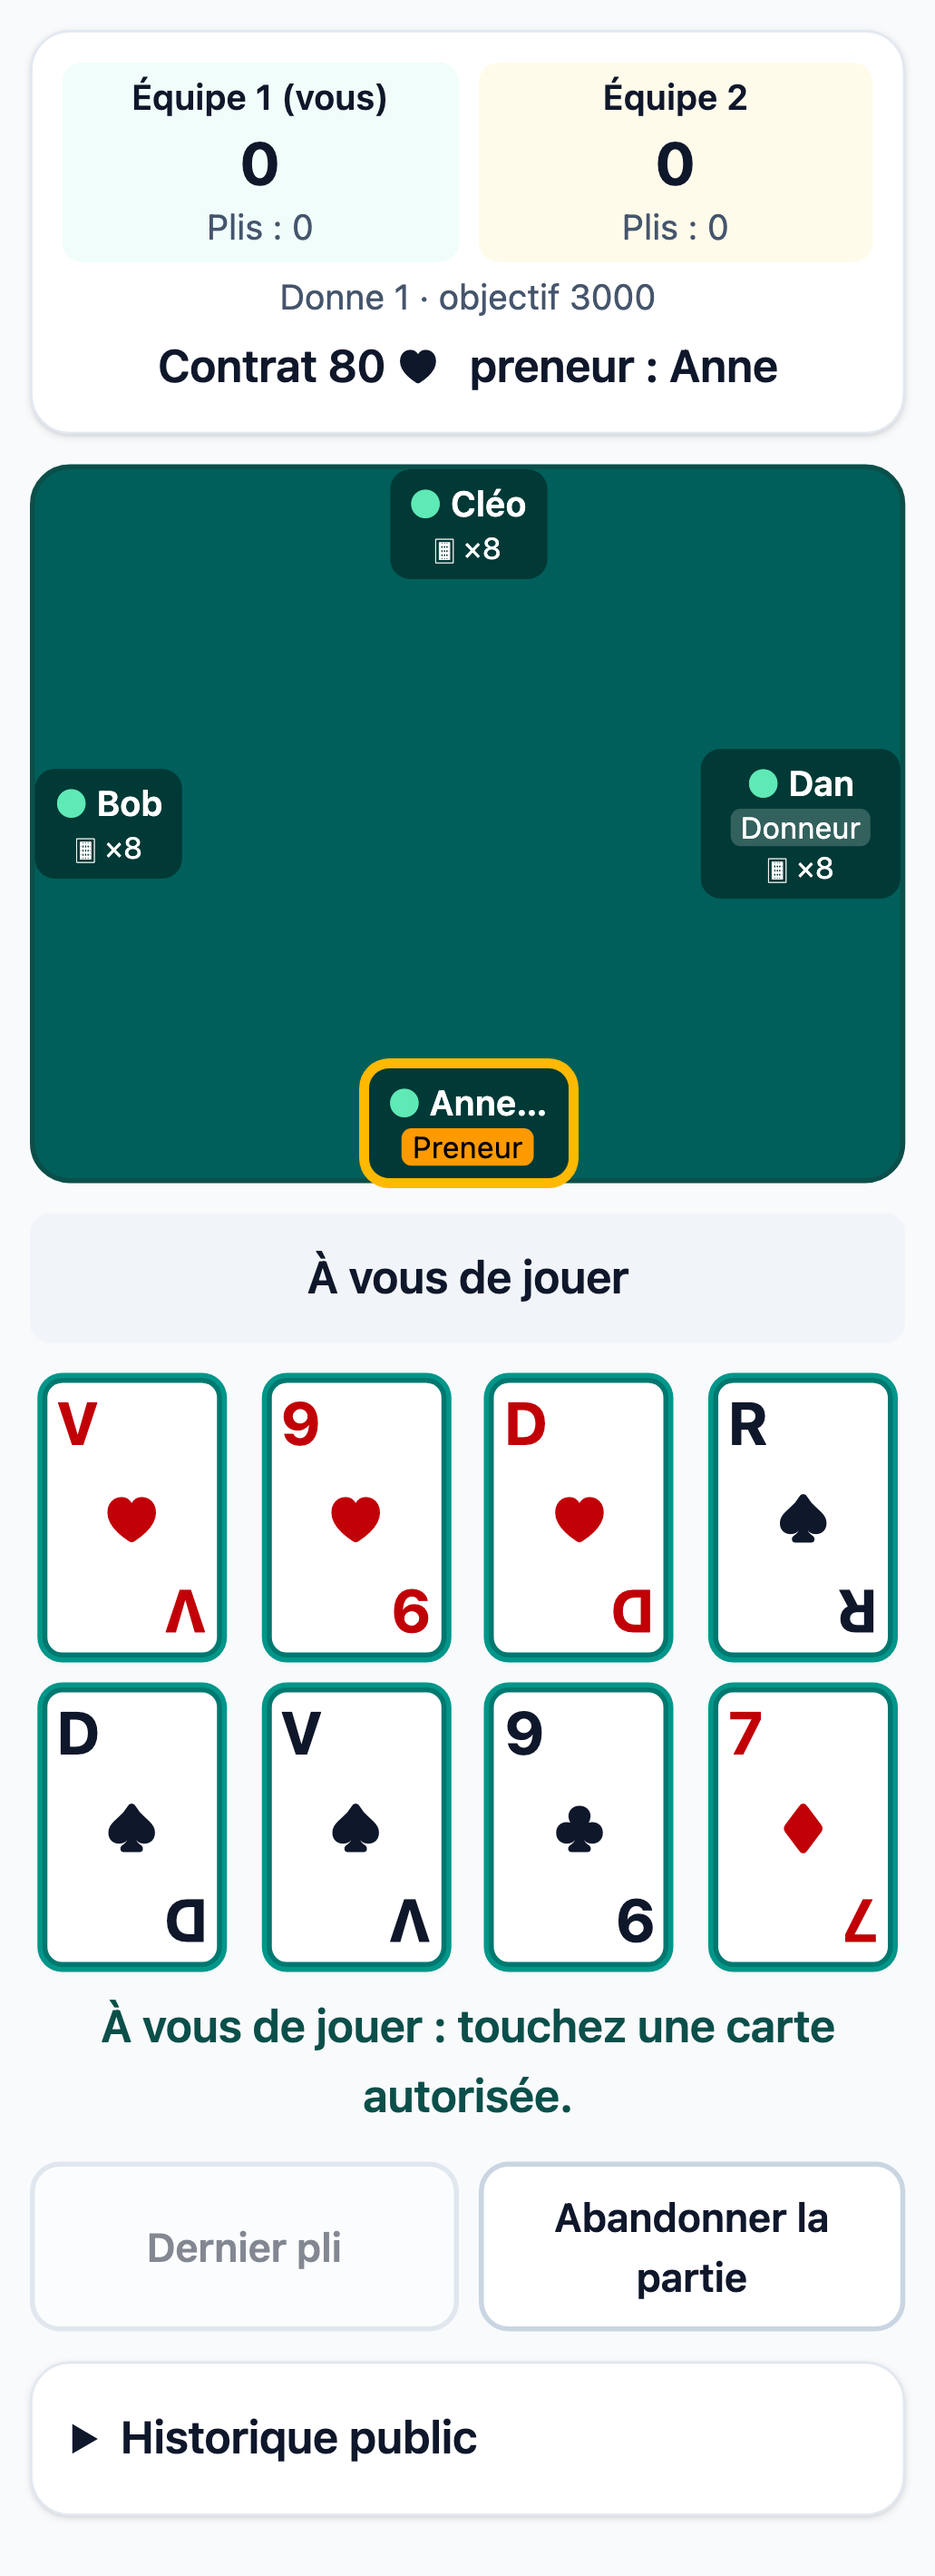
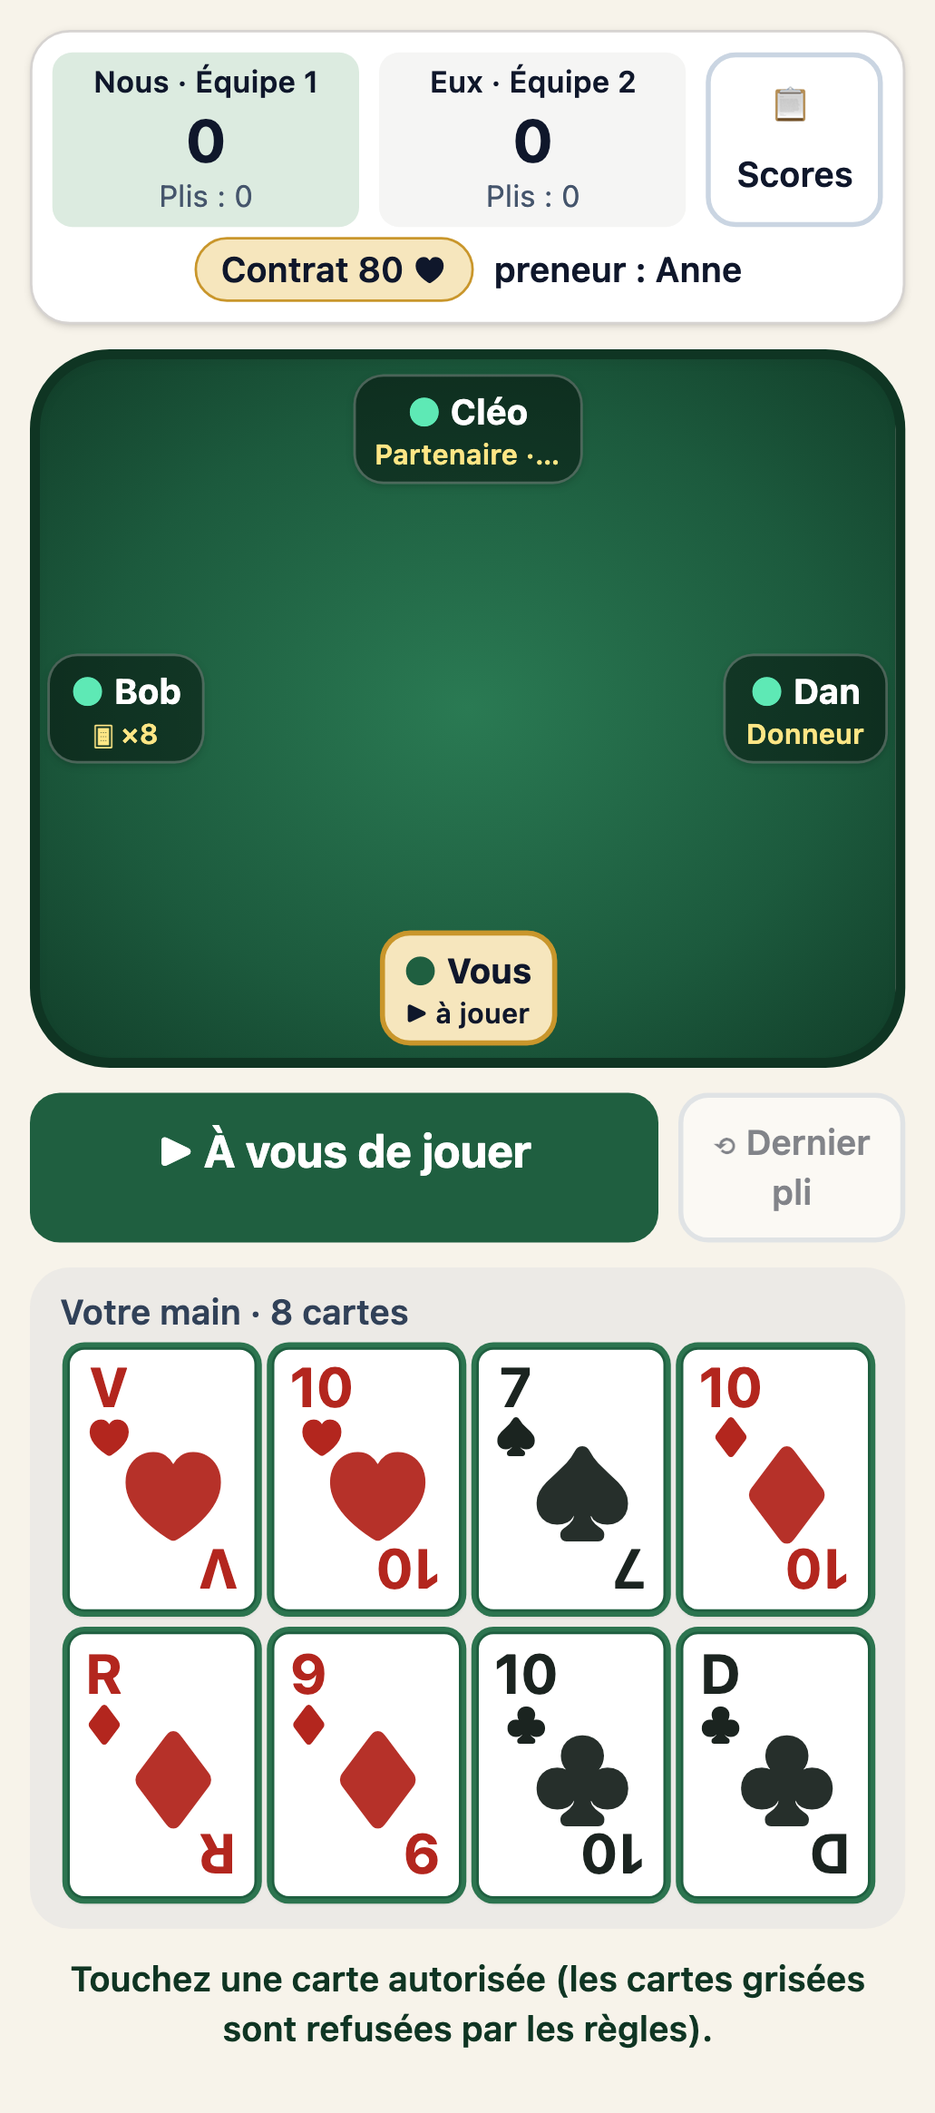
Tests et documentation : parcours adaptés au salon replié, captures avant/après, audit et décisions

diff --git a/e2e/review.spec.ts b/e2e/review.spec.ts
@@ -109,7 +109,7 @@ for (const width of WIDTHS) {
       // --- Accueil et erreurs ---
       await anne.page.goto('/')
       await snap(anne.page, c, '00-accueil-compteur')
-      await anne.page.getByRole('link', { name: /Jouer en ligne/ }).click() // le chemin réel de l'utilisateur
+      await anne.page.getByTestId('play-online').click() // le chemin réel de l'utilisateur
       await expect(anne.page.getByTestId('create-room')).toBeVisible()
       await snap(anne.page, c, '01-accueil-en-ligne')
       // Clavier virtuel (émulation par réduction de la hauteur) : le formulaire reste atteignable.
@@ -137,6 +137,7 @@ for (const width of WIDTHS) {
       await fifth.getByTestId('join-room').click()
       await expect(fifth.getByRole('alert')).toContainText(/complet|commencé/i)
       await snap(fifth, c, '05-salon-complet-refus')
+      await anne.page.getByTestId('rules-toggle').click()
       await anne.page.locator('#gname').fill('Une soirée dont le nom est vraiment très très long pour tester')
       await anne.page.locator('#dealer').selectOption('3')
       await anne.page.locator('#target').fill('3000')
@@ -289,6 +290,7 @@ for (const width of WIDTHS) {
     try {
       const [anne, bob] = ps
       await createAndJoin(ps)
+      await anne.page.getByTestId('rules-toggle').click()
       await anne.page.locator('#target').fill('100')
       await anne.page.locator('#dealer').selectOption('3')
       await anne.page.getByTestId('save-config').click()

diff --git a/e2e/coinche.spec.ts b/e2e/coinche.spec.ts
@@ -9,6 +9,7 @@ async function startGame(players: Player[], rules: { target: number }) {
   const host = players[0].page
   await host.getByTestId('room-code').waitFor()
   // Règles : l'hôte les enregistre (cela remet les « prêt » à zéro), puis tout le monde se déclare prêt.
+  await host.getByTestId('rules-toggle').click()
   await host.locator('#target').fill(String(rules.target))
   await host.locator('#dealer').selectOption('3') // la place 4 donne : la place 1 parle et entame
   await host.locator('#gname').fill('Soirée e2e')

diff --git a/e2e/belote.spec.ts b/e2e/belote.spec.ts
@@ -6,6 +6,7 @@ test('belote avec annonces : deuxième tour, donne complète et score partagé',
   const host = players[0].page
   try {
     await createAndJoin(players, 'belote-annonces')
+    await host.getByTestId('rules-toggle').click()
     await expect(host.locator('#target')).toHaveValue('1000')
     await host.locator('#dealer').selectOption('3')
     await host.getByTestId('save-config').click()

diff --git a/docs/redesign/README.md b/docs/redesign/README.md
@@ -1,0 +1,61 @@
+# Refonte UI/UX — audit, décisions, vérifications
+
+Captures « avant » : `avant/` (état de `main` à `e555ef2`). « Après » : `apres/` (390 px), `apres-large/` (1100 px), `apres-webkit/` (WebKit automatisé).
+Toutes les captures sont produites par `npx tsx tools/shots.ts <dossier> [largeur] [chromium|webkit]` avec des données fictives
+(serveur de test déterministe, joueurs automatiques qui n'utilisent que les actions annoncées comme autorisées).
+
+## Audit (avant)
+
+### Empêchait ou freinait réellement de jouer
+
+| Écran                          | Ce qui gênait                                                                                                                                                   | Quand                  |
+| ------------------------------ | --------------------------------------------------------------------------------------------------------------------------------------------------------------- | ---------------------- |
+| Tarot (toutes tailles) — table | Aucune table : pli, scores et phase en listes de texte ; le joueur dont c'est le tour n'était qu'une phrase                                                     | Toute la donne         |
+| Tarot — main                   | Cartes = boutons de texte « Atout 20 », « 8♠ » ; 24 cartes (à 3) ou 15 cartes (à 5/6) illisibles à distinguer, jouées au premier toucher (risque de faux geste) | Jeu des cartes         |
+| Tarot — appel, écart, poignée  | Cases à cocher et boutons sans cartes ; pas d'indication de ce qu'il faut toucher                                                                               | Appel, écart, annonces |
+| Coinche — table                | Étiquettes « Donneur » / « Preneur » coupées hors de l'écran (375 px) ; pli recouvert par la bannière « Belote ! » plein centre                                 | Pli en cours           |
+| Coinche — enchères             | Main sous le panneau d'enchères : il fallait défiler pour voir ses cartes en enchérissant                                                                       | Enchères               |
+| Salon                          | 4 sections empilées (≈ 2 000 px) ; le bouton « Lancer » en bas, sans dire ce qui manque ; réglages ouverts en permanence                                        | Avant le lancement     |
+| Compteur — saisie d'une donne  | 8 à 10 listes déroulantes et champs ; le preneur, l'atout et le contrat passaient par des sélecteurs natifs                                                     | Chaque donne           |
+| Connexion perdue               | Message en haut de la table seulement, sans dire que la place est conservée ; aucune confirmation au retour                                                     | Coupure Wi-Fi          |
+
+### Ralentissaient
+
+- Accueil : 6 boutons de même poids, deux usages sans hiérarchie ; reprise d'un salon cachée dans « Jouer en ligne ».
+- Saisie : aperçu du calcul complet affiché en permanence (long), résultat utile (points par camp) noyé.
+- Scores et historique de la table en bas de page (défilement) ; abandon à côté de « Dernier pli ».
+
+### Présentation
+
+- Palette teal/blanc générique, cartes sans hiérarchie (symbole 24 px, rang 18 px), pas d'identité « jeu de cartes ».
+
+## Direction visuelle
+
+Tapis de jeu vert, papier crème, filet doré pour l'action attendue. Le vert remplace le « teal » via le thème Tailwind (un seul endroit : `src/style.css`).
+Cartes dessinées en CSS (indice en coin + grand symbole, tailles en unités de conteneur : la même carte sert en main de 24 cartes et au centre du pli) ;
+couleurs rouge/noir conservées, atouts du tarot en bleu, Excuse en or. Aucun état n'est porté par la couleur seule (texte « ▶ à jouer », « ✓ Prêt », coche, etc.).
+
+## Décisions d'UX
+
+- **Accueil** : deux cartes d'usage (compter / jouer en ligne), chacune avec sa reprise (partie en cours / dernier salon de moins de 24 h).
+- **Salon** : code et « Partager le lien » en tête ; places avec pastilles `Hôte`, `Hors ligne`, `✓ Prêt`/`… Pas prêt` ; compteur « 3/4 assis · 2/4 prêts » ;
+  barre collante « Pour lancer : 1 place à prendre · 1 joueur pas prêt » avec « Je suis prêt » et « Lancer » ; règles repliées.
+- **Table** (coinche, belote, tarot 3 à 6) : un composant commun `TableSeats` (ovale, moi en bas, pli posé vers son auteur, donneur au repos en pointillé).
+  En-tête compact (scores, contrat) ; scores détaillés, historique des annonces et abandon dans la feuille « Scores » ; « Dernier pli » à côté de la bannière d'état.
+- **Main** : composant commun `HandFan` (4, 6 ou 8 colonnes selon le nombre de cartes ; 24 cartes = 3 lignes de 8). Sélection puis bouton collant « Jouer … » (tarot compris).
+  Pendant les enchères, la main est sur une seule ligne au-dessus des commandes.
+- **Annonces de belote** : bandeau repliable sous la table, cartes des annonces retenues dessinées ; moment de révélation inchangé (serveur).
+- **Compteur** : preneur et donneur en boutons, atout en gros symboles colorés, contrat en pastilles, résultat par camp en direct + détail du calcul repliable,
+  « Saisir une donne » collant sur le tableau des scores, barres de progression vers l'objectif.
+- **États difficiles** : bandeau collant « Connexion perdue — votre place est gardée », boutons désactivés, puis « ✓ Reconnecté — la partie est à jour ».
+- **Mouvement** : animations courtes (≤ 0,22 s), jamais bloquantes ; coupées avec `prefers-reduced-motion`.
+
+## Règles et données
+
+Aucune règle, aucun calcul, aucun schéma de données ni protocole modifiés. Les mains restent privées ; la révélation des annonces de belote reste au début du deuxième pli.
+Aucun défaut fonctionnel du serveur ou du moteur n'a été corrigé : tous les écarts relevés sont d'ergonomie.
+Un changement de comportement côté client : au tarot, jouer une carte demande désormais « sélection puis bouton Jouer » (comme la coinche) au lieu d'un toucher direct.
+
+## Vérifications
+
+Voir la description de la PR (résultats de lint, format, TypeScript, Vitest, Playwright, builds, revue Chromium/WebKit).
